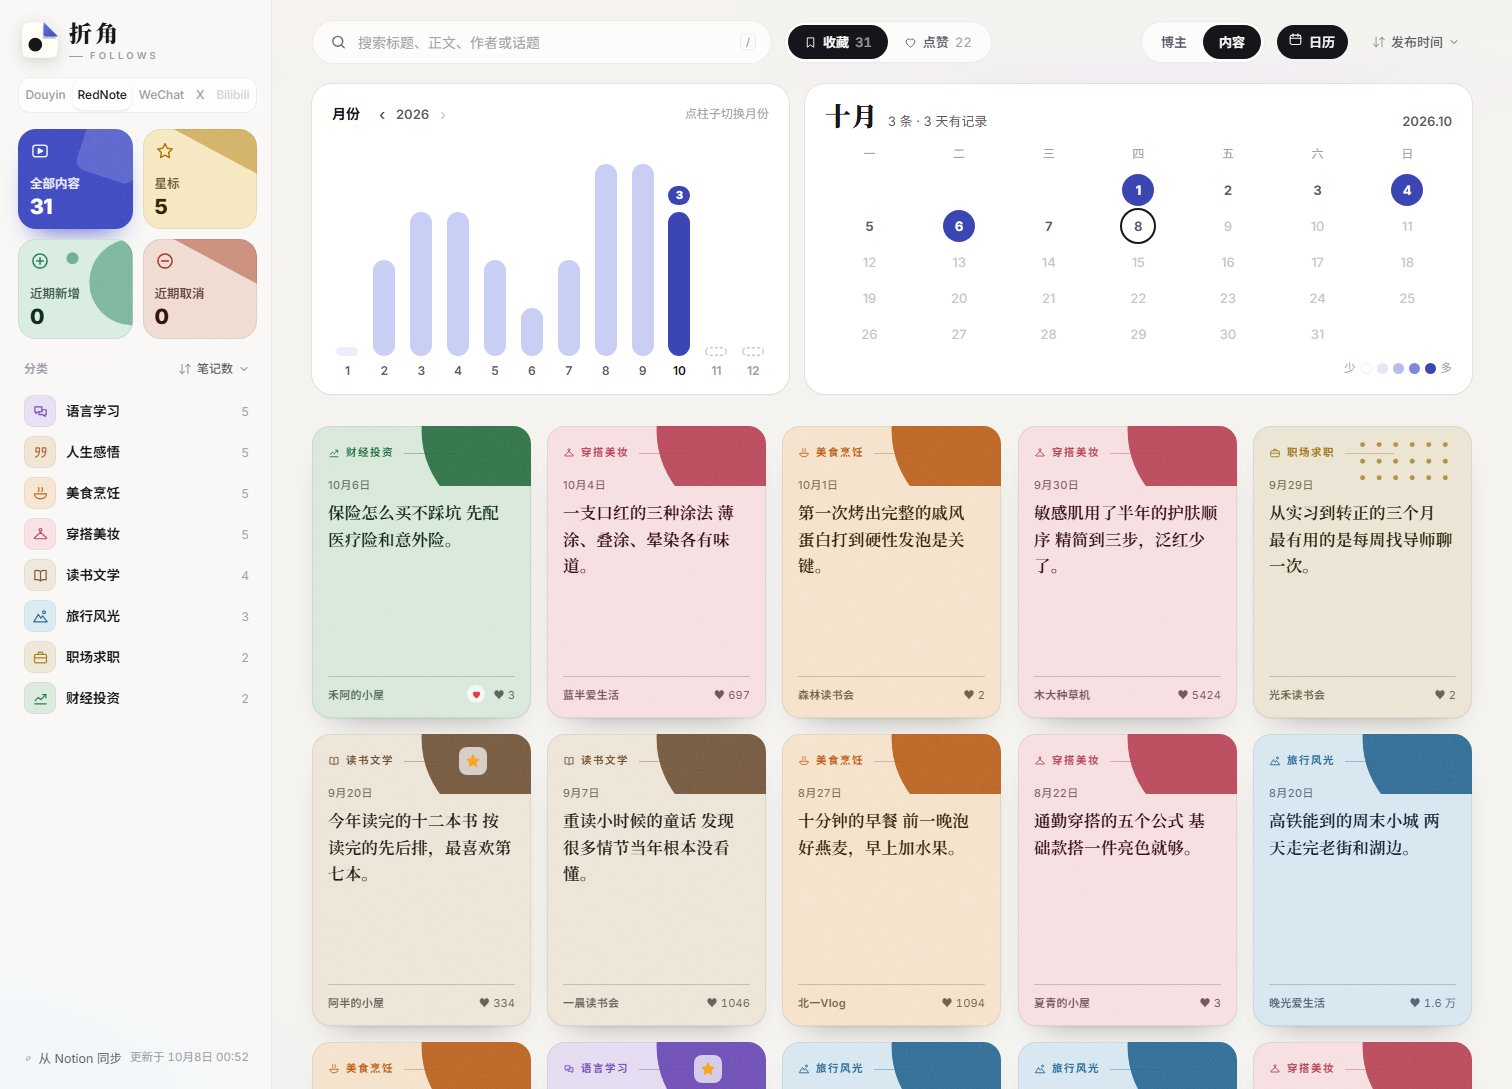
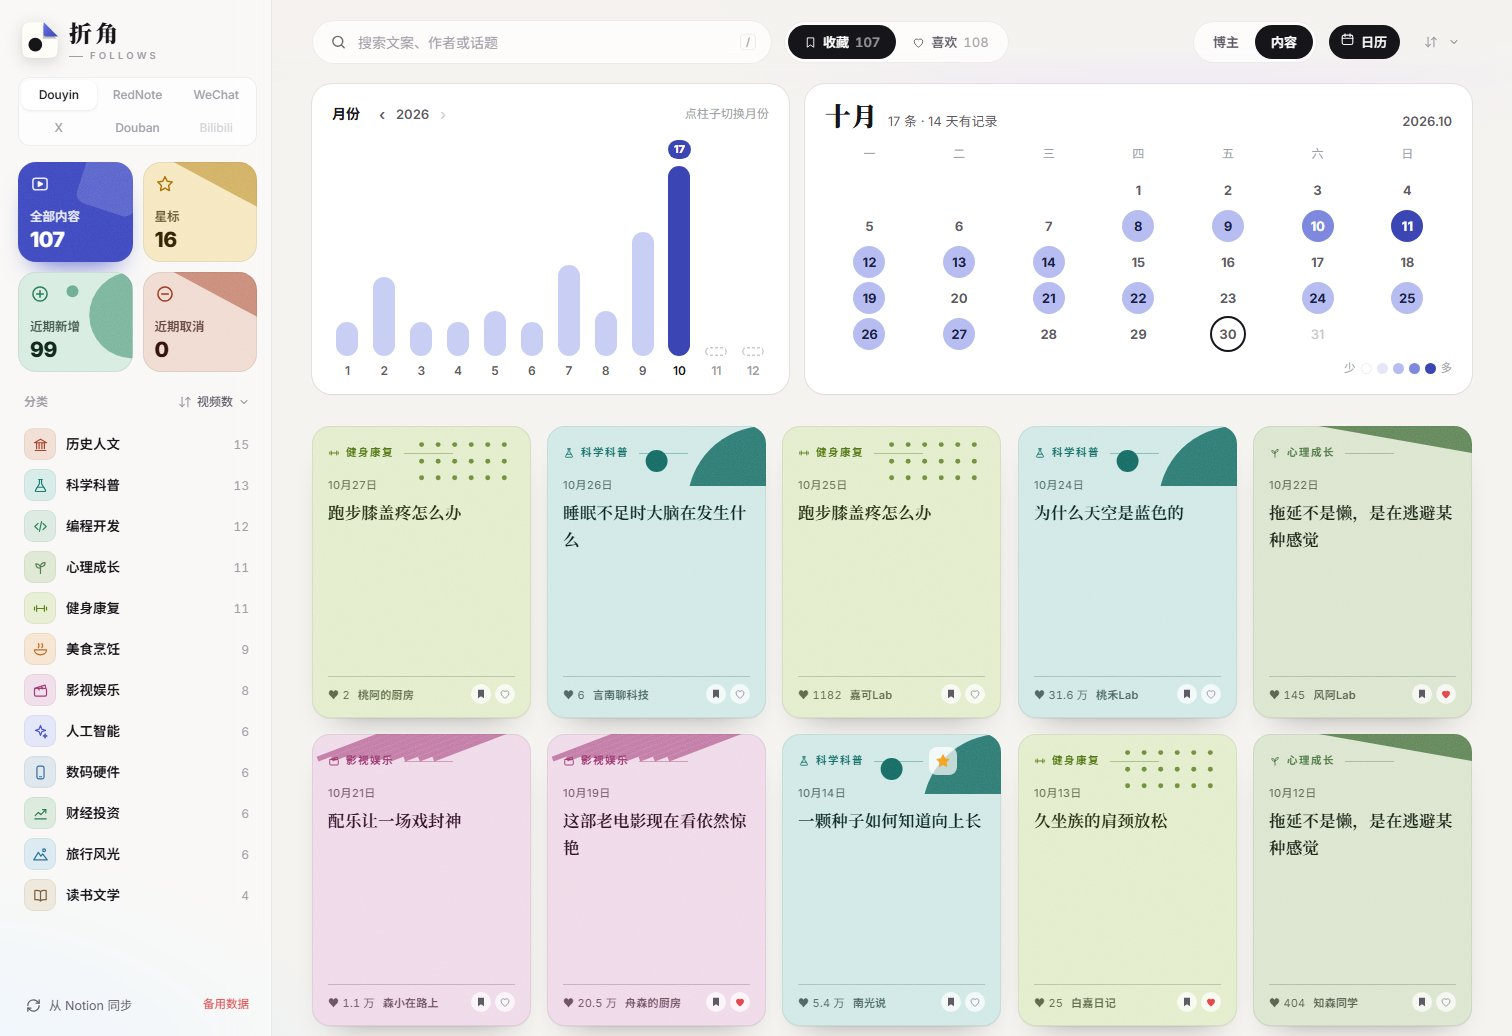
3.0.0: designed demo covers and posters; retake all screenshots without cut-off content

diff --git a/scripts/demo-covers/make.py b/scripts/demo-covers/make.py
@@ -1,0 +1,143 @@
+"""生成演示用的豆瓣封面与海报（全是虚构的书和影片）：拼成一张 HTML，用无头 Chrome 截一张大图，再切成每本一张 jpg。
+用法（在仓库根目录）：python scripts/demo-covers/make.py
+输出 scripts/demo-covers/douban/<编号>.jpg 与 scripts/demo-covers/douban-movie/<编号>.jpg；scripts/demo-data.mjs 生成演示数据时把它们拷进 public/covers/。
+书名、片名、编号与 demo-data.mjs 里的一致；改了那边的名单要重跑这里。"""
+import hashlib
+import shutil
+import subprocess
+import sys
+import tempfile
+from pathlib import Path
+
+from PIL import Image
+
+HERE = Path(__file__).resolve().parent
+BOOKS = ["雾中的灯塔", "第七条河流", "纸上的城市", "慢船去南方", "晚钟与麦田", "一座岛的编年", "听见石头说话", "镜子里的旅人", "冬天的植物学",
+         "旧地图上的名字", "风从北方来", "一个人的天文台", "无人知晓的海岸", "手工的哲学", "时间的抽屉", "家族相册", "思考的速度", "雨季备忘录",
+         "灰色城市指南", "小数点后的世界", "穿过森林的铁路", "安静的力量", "船长的笔记本", "最后一个钟表匠", "水的形状", "影子博物馆", "蓝色的边界",
+         "远方来信", "一百个清晨", "被遗忘的发明", "日常的勇气", "沙丘上的房子", "看不见的市场", "夜航", "云的分类学", "石头与星辰"]
+MOVIES = ["夏天结束的地方", "灯塔看守人", "第九站台", "海边的理发店", "长夜慢车", "一封没寄出的信", "纸飞机", "雾港", "回声小镇", "星期三的雨", "最后的放映员", "远山来客"]
+PRESSES = ["青石出版社", "远帆文艺", "白鹭书局", "北辰人文", "南窗出版社", "知言书社"]
+W, H = 300, 420  # 一张封面的 CSS 尺寸，按 2 倍截图得到 600×840
+
+PALETTES = [("#1f3a4d", "#ece3d0", "#c9784a"), ("#2d4a3e", "#efe6d2", "#d4a24c"), ("#5a2e2a", "#f2e8dc", "#e0a458"),
+            ("#24304f", "#f4efe6", "#e46f4b"), ("#3b3a36", "#ede4d3", "#8fae8b"), ("#0f4c5c", "#f6f1e7", "#e36414"),
+            ("#4a3b5c", "#f1ece4", "#d9a5b3"), ("#283618", "#fefae0", "#dda15e"), ("#14213d", "#ece9e2", "#fca311"),
+            ("#6b2737", "#f3ece2", "#e9b44c"), ("#1d3557", "#f1faee", "#e63946")]
+ARTS = ["sea", "night", "forest", "city", "desert", "rings", "blobs", "grid", "stripes", "leaves"]
+SERIF = "'Noto Serif SC','Source Han Serif SC','Songti SC',serif"
+SANS = "'Noto Sans SC','Microsoft YaHei',sans-serif"
+
+
+def h(s, n):
+    return int(hashlib.md5(s.encode()).hexdigest(), 16) % n
+
+
+def art(kind, r, pal):
+    """一幅 300×420 的画；r 只让同题材的几张各有差别"""
+    dark, light, acc = pal
+    if kind == "sea":
+        waves = "".join(f'<path d="M0 {250 + i * 24} Q 75 {236 + i * 24 + r % 11} 150 {250 + i * 24} T 300 {250 + i * 24} V420 H0Z" fill="{dark}" opacity="{0.3 + i * 0.14:.2f}"/>' for i in range(5))
+        return f'<rect width="300" height="420" fill="{light}"/><circle cx="{80 + r % 140}" cy="150" r="48" fill="{acc}"/>{waves}'
+    if kind == "night":
+        stars = "".join(f'<circle cx="{(r * 7 + i * 53) % 300}" cy="{(r * 3 + i * 37) % 250}" r="{0.8 + (i % 3) * 0.6:.1f}" fill="#fff" opacity="0.75"/>' for i in range(46))
+        return (f'<rect width="300" height="420" fill="{dark}"/>{stars}<circle cx="{210 - r % 90}" cy="120" r="34" fill="{light}"/><circle cx="{222 - r % 90}" cy="112" r="30" fill="{dark}"/>'
+                '<path d="M0 330 L60 290 L110 320 L170 270 L230 310 L300 280 V420 H0Z" fill="#000" opacity="0.3"/>')
+    if kind == "forest":
+        trees = "".join(f'<path d="M{x} 380 L{x + 20} {290 - (x * r) % 70} L{x + 40} 380Z" fill="{dark}" opacity="{0.5 + ((x // 28) % 3) * 0.17:.2f}"/>' for x in range(-12, 300, 24))
+        return f'<rect width="300" height="420" fill="{light}"/><circle cx="{220 - r % 60}" cy="110" r="40" fill="{acc}" opacity="0.9"/>{trees}<rect y="378" width="300" height="42" fill="{dark}"/>'
+    if kind == "city":
+        blds = "".join(f'<rect x="{x}" y="{190 + (x * r) % 130}" width="{24 + (x % 3) * 8}" height="300" fill="{dark}" opacity="{0.45 + ((x // 30) % 3) * 0.2:.2f}"/>' for x in range(0, 300, 30))
+        wins = "".join(f'<rect x="{8 + (i * 31) % 284}" y="{250 + (i * 17) % 140}" width="4" height="6" fill="{acc}"/>' for i in range(34))
+        return f'<rect width="300" height="420" fill="{light}"/><circle cx="{60 + r % 180}" cy="120" r="30" fill="{acc}" opacity="0.6"/>{blds}{wins}'
+    if kind == "desert":
+        return (f'<rect width="300" height="420" fill="{light}"/><circle cx="{110 + r % 80}" cy="170" r="72" fill="{acc}"/>'
+                f'<path d="M0 290 Q 90 240 170 290 T 300 280 V420 H0Z" fill="{dark}" opacity="0.55"/><path d="M0 335 Q 120 295 220 340 T 300 325 V420 H0Z" fill="{dark}"/>')
+    if kind == "rings":
+        rings = "".join(f'<circle cx="{150 + r % 70 - 35}" cy="{200 + r % 40 - 20}" r="{18 + i * 24}" fill="none" stroke="{dark if i % 2 else acc}" stroke-width="{7 - i * 0.6:.1f}" opacity="0.85"/>' for i in range(9))
+        return f'<rect width="300" height="420" fill="{light}"/>{rings}'
+    if kind == "blobs":
+        b = "".join(f'<circle cx="{(r * (i + 2) * 13) % 300}" cy="{(r * (i + 5) * 7) % 420}" r="{60 + (i * 23) % 70}" fill="{[dark, acc, light][i % 3]}" opacity="0.8"/>' for i in range(6))
+        return f'<rect width="300" height="420" fill="{light}"/><rect width="300" height="420" fill="{acc}" opacity="0.3"/>{b}'
+    if kind == "grid":
+        cells = "".join(f'<rect x="{30 + (i % 5) * 50}" y="{40 + (i // 5) * 50}" width="40" height="40" rx="{20 if (i * r) % 3 == 0 else 2}" fill="{[dark, acc, light][(i * r) % 3]}"/>' for i in range(35))
+        return f'<rect width="300" height="420" fill="{light}"/><rect width="300" height="420" fill="{dark}" opacity="0.08"/>{cells}'
+    if kind == "stripes":
+        st = "".join(f'<rect x="{-200 + i * 28}" y="-80" width="14" height="640" fill="{dark if i % 2 else acc}" transform="rotate(30 150 210)"/>' for i in range(22))
+        return f'<rect width="300" height="420" fill="{light}"/>{st}<circle cx="150" cy="210" r="70" fill="{light}"/><circle cx="150" cy="210" r="28" fill="{acc}"/>'
+    leaves = "".join(f'<ellipse cx="{(r * 5 + i * 47) % 300}" cy="{(r * 11 + i * 61) % 420}" rx="34" ry="12" fill="{[dark, acc][i % 2]}" opacity="0.85" '
+                     f'transform="rotate({(i * 37) % 180} {(r * 5 + i * 47) % 300} {(r * 11 + i * 61) % 420})"/>' for i in range(26))
+    return f'<rect width="300" height="420" fill="{light}"/>{leaves}'
+
+
+def piece(kind, r, pal, x, y, w, hh):
+    """把一幅画按裁切放进封面上的一块区域"""
+    return f'<svg x="{x}" y="{y}" width="{w}" height="{hh}" viewBox="0 0 300 420" preserveAspectRatio="xMidYMid slice">{art(kind, r, pal)}</svg>'
+
+
+def box(svg, text):
+    return f'<div style="position:relative;width:{W}px;height:{H}px;overflow:hidden"><svg width="{W}" height="{H}" viewBox="0 0 300 420" style="position:absolute;inset:0">{svg}</svg>{text}</div>'
+
+
+def book_cover(t, press, i):
+    """三种版式轮流：上图下字、浅底画框、深底竖排；标题都放在不压画的地方，保证看得清"""
+    pal = PALETTES[i % len(PALETTES)]
+    dark, light, acc = pal
+    kind, r, layout = ARTS[(i * 3) % len(ARTS)], h(t, 1000), i % 3
+    size = 30 if len(t) <= 6 else 25
+    if layout == 0:
+        svg = piece(kind, r, pal, 0, 0, 300, 268) + f'<rect y="268" width="300" height="152" fill="{light}"/><rect x="24" y="356" width="36" height="3" fill="{acc}"/>'
+        text = (f'<div style="position:absolute;left:24px;right:20px;top:284px;font:700 {size}px/1.25 {SERIF};color:{dark}">{t}</div>'
+                f'<div style="position:absolute;left:24px;bottom:22px;font:12px {SANS};letter-spacing:2px;color:{dark};opacity:.75">{press}</div>')
+    elif layout == 1:
+        svg = f'<rect width="300" height="420" fill="{light}"/>' + piece(kind, r, pal, 30, 120, 240, 230) + f'<rect x="30" y="120" width="240" height="230" fill="none" stroke="{dark}" stroke-width="1.5"/>'
+        text = (f'<div style="position:absolute;left:30px;right:30px;top:34px;font:700 {size}px/1.2 {SERIF};color:{dark}">{t}</div>'
+                f'<div style="position:absolute;left:30px;bottom:26px;font:12px {SANS};letter-spacing:2px;color:{dark};opacity:.75">{press}</div>')
+    else:
+        svg = f'<rect width="300" height="420" fill="{dark}"/>' + piece(kind, r, pal, 0, 240, 300, 180)
+        if len(t) <= 5:
+            text = (f'<div style="position:absolute;right:30px;top:30px;writing-mode:vertical-rl;font:700 34px/1.1 {SERIF};letter-spacing:8px;color:{light}">{t}</div>'
+                    f'<div style="position:absolute;left:24px;top:34px;font:12px {SANS};letter-spacing:2px;color:{light};opacity:.8">{press}</div>')
+        else:
+            text = (f'<div style="position:absolute;left:24px;right:24px;top:40px;font:700 {size}px/1.25 {SERIF};color:{light}">{t}</div>'
+                    f'<div style="position:absolute;left:24px;top:200px;font:12px {SANS};letter-spacing:2px;color:{light};opacity:.8">{press}</div>')
+    return box(svg, text)
+
+
+def movie_poster(t, i):
+    """满版画面，底部压一层渐暗，片名白字"""
+    pal = PALETTES[(i * 5 + 2) % len(PALETTES)]
+    acc = pal[2]
+    kind, r = ["night", "sea", "city", "desert", "forest", "rings"][i % 6], h(t, 1000)
+    svg = (piece(kind, r, pal, 0, 0, 300, 420) + f'<defs><linearGradient id="g{i}" x1="0" y1="0" x2="0" y2="1"><stop offset=".45" stop-color="#000" stop-opacity="0"/>'
+           f'<stop offset="1" stop-color="#000" stop-opacity=".8"/></linearGradient></defs><rect width="300" height="420" fill="url(#g{i})"/>')
+    text = (f'<div style="position:absolute;left:22px;right:22px;bottom:58px;font:700 {30 if len(t) <= 6 else 25}px/1.2 {SERIF};color:#fff">{t}</div>'
+            f'<div style="position:absolute;left:22px;bottom:30px;font:600 10px {SANS};letter-spacing:4px;color:#fff;opacity:.8">A FILM</div>'
+            f'<div style="position:absolute;left:22px;top:20px;width:40px;height:3px;background:{acc}"></div>')
+    return box(svg, text)
+
+
+def main():
+    items = [("douban", str(90000001 + i * 37), book_cover(t, PRESSES[h(t, len(PRESSES))], i)) for i, t in enumerate(BOOKS)]
+    items += [("douban-movie", str(91000001 + i * 41), movie_poster(t, i)) for i, t in enumerate(MOVIES)]
+    cols = 8
+    rows = (len(items) + cols - 1) // cols
+    html = (f'<!doctype html><meta charset="utf-8"><body style="margin:0;background:#fff;display:grid;grid-template-columns:repeat({cols},{W}px)">'
+            + "".join(c for _, _, c in items) + "</body>")
+    tmp = Path(tempfile.mkdtemp())
+    (tmp / "covers.html").write_text(html, encoding="utf-8")
+    chrome = r"C:\Program Files\Google\Chrome\Application\chrome.exe" if sys.platform == "win32" else "google-chrome"
+    subprocess.run([chrome, "--headless=new", "--disable-gpu", "--hide-scrollbars", "--force-device-scale-factor=2", f"--user-data-dir={tmp / 'p'}",
+                    f"--window-size={cols * W},{rows * H}", f"--screenshot={tmp / 'all.png'}", (tmp / "covers.html").as_uri()], check=True, capture_output=True)
+    big = Image.open(tmp / "all.png").convert("RGB")
+    for k, (d, v, _) in enumerate(items):
+        x, y = (k % cols) * W * 2, (k // cols) * H * 2
+        out = HERE / d / f"{v}.jpg"
+        out.parent.mkdir(parents=True, exist_ok=True)
+        big.crop((x, y, x + W * 2, y + H * 2)).save(out, quality=86)
+    shutil.rmtree(tmp, ignore_errors=True)
+    print(f"wrote {len(items)} covers and posters")
+
+
+if __name__ == "__main__":
+    main()

diff --git a/CHANGELOG.md b/CHANGELOG.md
@@ -22,6 +22,7 @@
 - `tools/resync.py` 简化为 `plan` 与 `apply` 两个命令：新关注必须填好分类和子分类，`apply` 先核对，有缺漏或不匹配就一行不写。
 - `tools/notion_write.py` 是本机写 Notion 的共用入口，遇到 429 与 502、503、504 按返回的等待时间或递增间隔重试。
 - `docs/notion-schema.md` 补上豆瓣两个库、「子分类」「人工」「添加顺序」三列，去掉收藏夹库。
+- 演示数据加上豆瓣书架与影视、子分类、添加顺序；豆瓣的演示封面与海报由 `scripts/demo-covers/make.py` 画好放在仓库里，生成演示数据时拷进 `public/covers/`；截图全部重拍，加了豆瓣书架、豆瓣详情与子分类三张，每张的底边都落在内容之间。
 
 **升级须知**
 - 抖音博主库加两列：「子分类」（单选）与「人工」（勾选框）。X 与小红书的博主库、各平台的收藏与喜欢库、微信公众号文章库也要加「人工」，网页上改这些库的分类时会写它，缺这一列写入会失败。
